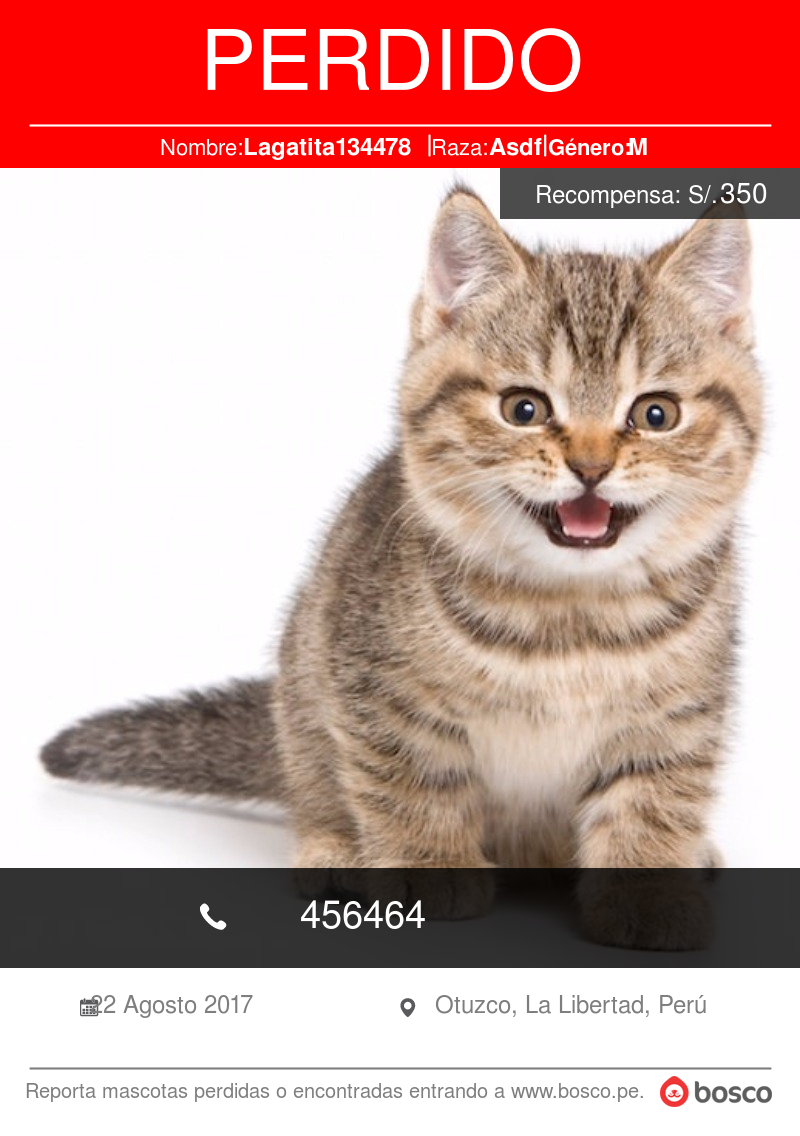
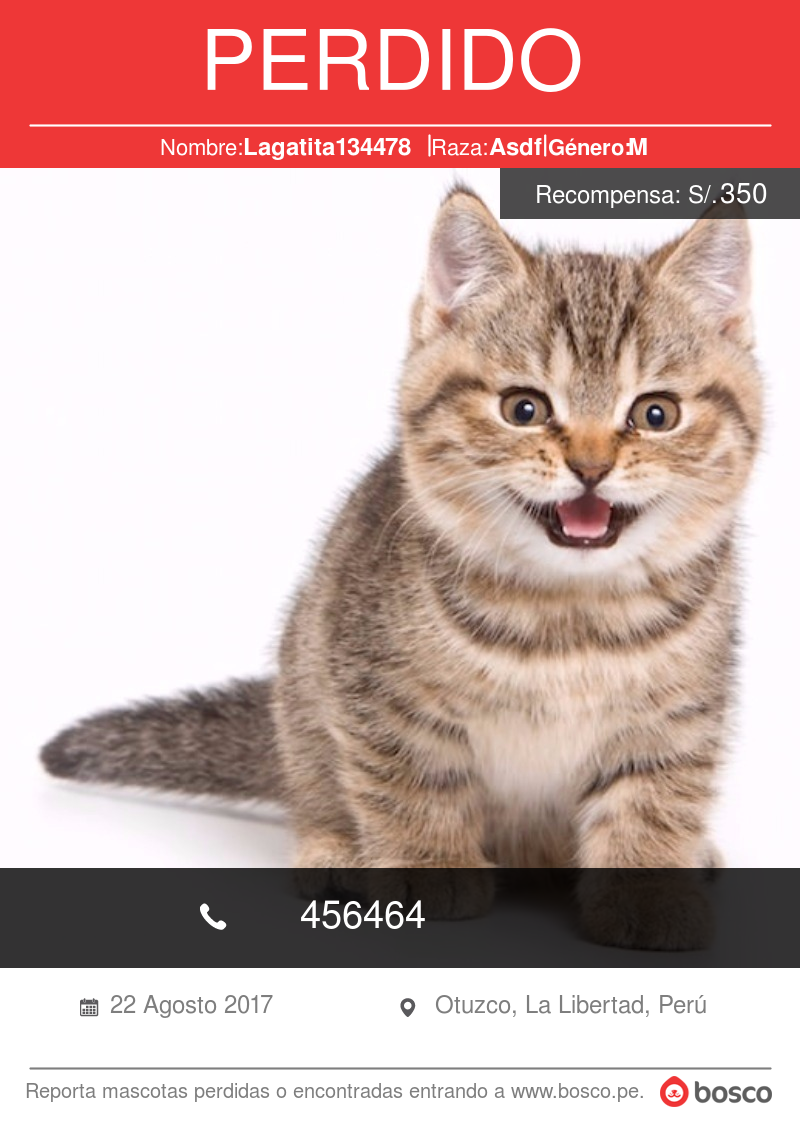
hotfixes flyes

Changed region(s): [[0.0, 0.0, 1.0, 0.154], [0.125, 0.8627, 0.3438, 0.8935]]

diff --git a/public/js/bosco.js b/public/js/bosco.js
@@ -1541,7 +1541,7 @@ function displayLocation(latitude, longitude, map) {
                         var city = extractFromAdress(results[0].address_components, "locality");
                         var department = extractFromAdress(results[0].address_components, "administrative_area_level_2");
                         var country = extractFromAdress(results[0].address_components, "country");
-                        document.getElementById('pac-address').value = district + " " + street_number;
+                        document.getElementById('pac-address').value = department + " " + district + " " + street_number;
                         /*document.getElementById('pac-department').value = department;
                         document.getElementById('pac-city').value = city;
                         document.getElementById('pac-district').value = district;*/

diff --git a/app/Http/Controllers/ReportsController.php b/app/Http/Controllers/ReportsController.php
@@ -155,7 +155,7 @@ class ReportsController extends Controller {
             $lienzo = new Imagick();
             $lienzo->newImage(800, 1136, "none");
             $headerLienzo = new Imagick();
-            $headerLienzo->newImage(800, 168, new ImagickPixel('red'));
+            $headerLienzo->newImage(800, 168, new ImagickPixel('rgb(238, 55, 55)'));
             $headerLienzo->setImageFormat("jpg");
             $textoPerdido = new \ImagickDraw();
             $textoPerdido->setFontSize(84);
@@ -281,7 +281,7 @@ class ReportsController extends Controller {
             $valorFecha = new \ImagickDraw();
             $valorFecha->setFontSize(24);
             $valorFecha->setFillColor(new ImagickPixel('gray'));
-            $valorFecha->annotation(90, 45, ucfirst($dia . ' ' . $mes . ' ' . $anho));  
+            $valorFecha->annotation(110, 45, ucfirst($dia . ' ' . $mes . ' ' . $anho));  
             $footerLienzo->drawImage($valorFecha);
             $locationImg = new Imagick("img/location.png");
             $footerLienzo->compositeimage($locationImg->getimage(), Imagick::COMPOSITE_DEFAULT, 400, 30);
@@ -440,7 +440,7 @@ class ReportsController extends Controller {
             $lienzo = new Imagick();
             $lienzo->newImage(800, 1136, "none");
             $headerLienzo = new Imagick();
-            $headerLienzo->newImage(800, 168, new ImagickPixel('red'));
+            $headerLienzo->newImage(800, 168, new ImagickPixel('rgb(238, 55, 55)'));
             $headerLienzo->setImageFormat("jpg");
             $textoPerdido = new \ImagickDraw();
             $textoPerdido->setFontSize(84);
@@ -554,7 +554,7 @@ class ReportsController extends Controller {
             $valorFecha = new \ImagickDraw();
             $valorFecha->setFontSize(24);
             $valorFecha->setFillColor(new ImagickPixel('gray'));
-            $valorFecha->annotation(90, 45, ucfirst($dia . ' ' . $mes . ' ' . $anho));  
+            $valorFecha->annotation(110, 45, ucfirst($dia . ' ' . $mes . ' ' . $anho));  
             $footerLienzo->drawImage($valorFecha);
             $locationImg = new Imagick("img/location.png");
             $footerLienzo->compositeimage($locationImg->getimage(), Imagick::COMPOSITE_DEFAULT, 400, 30);
